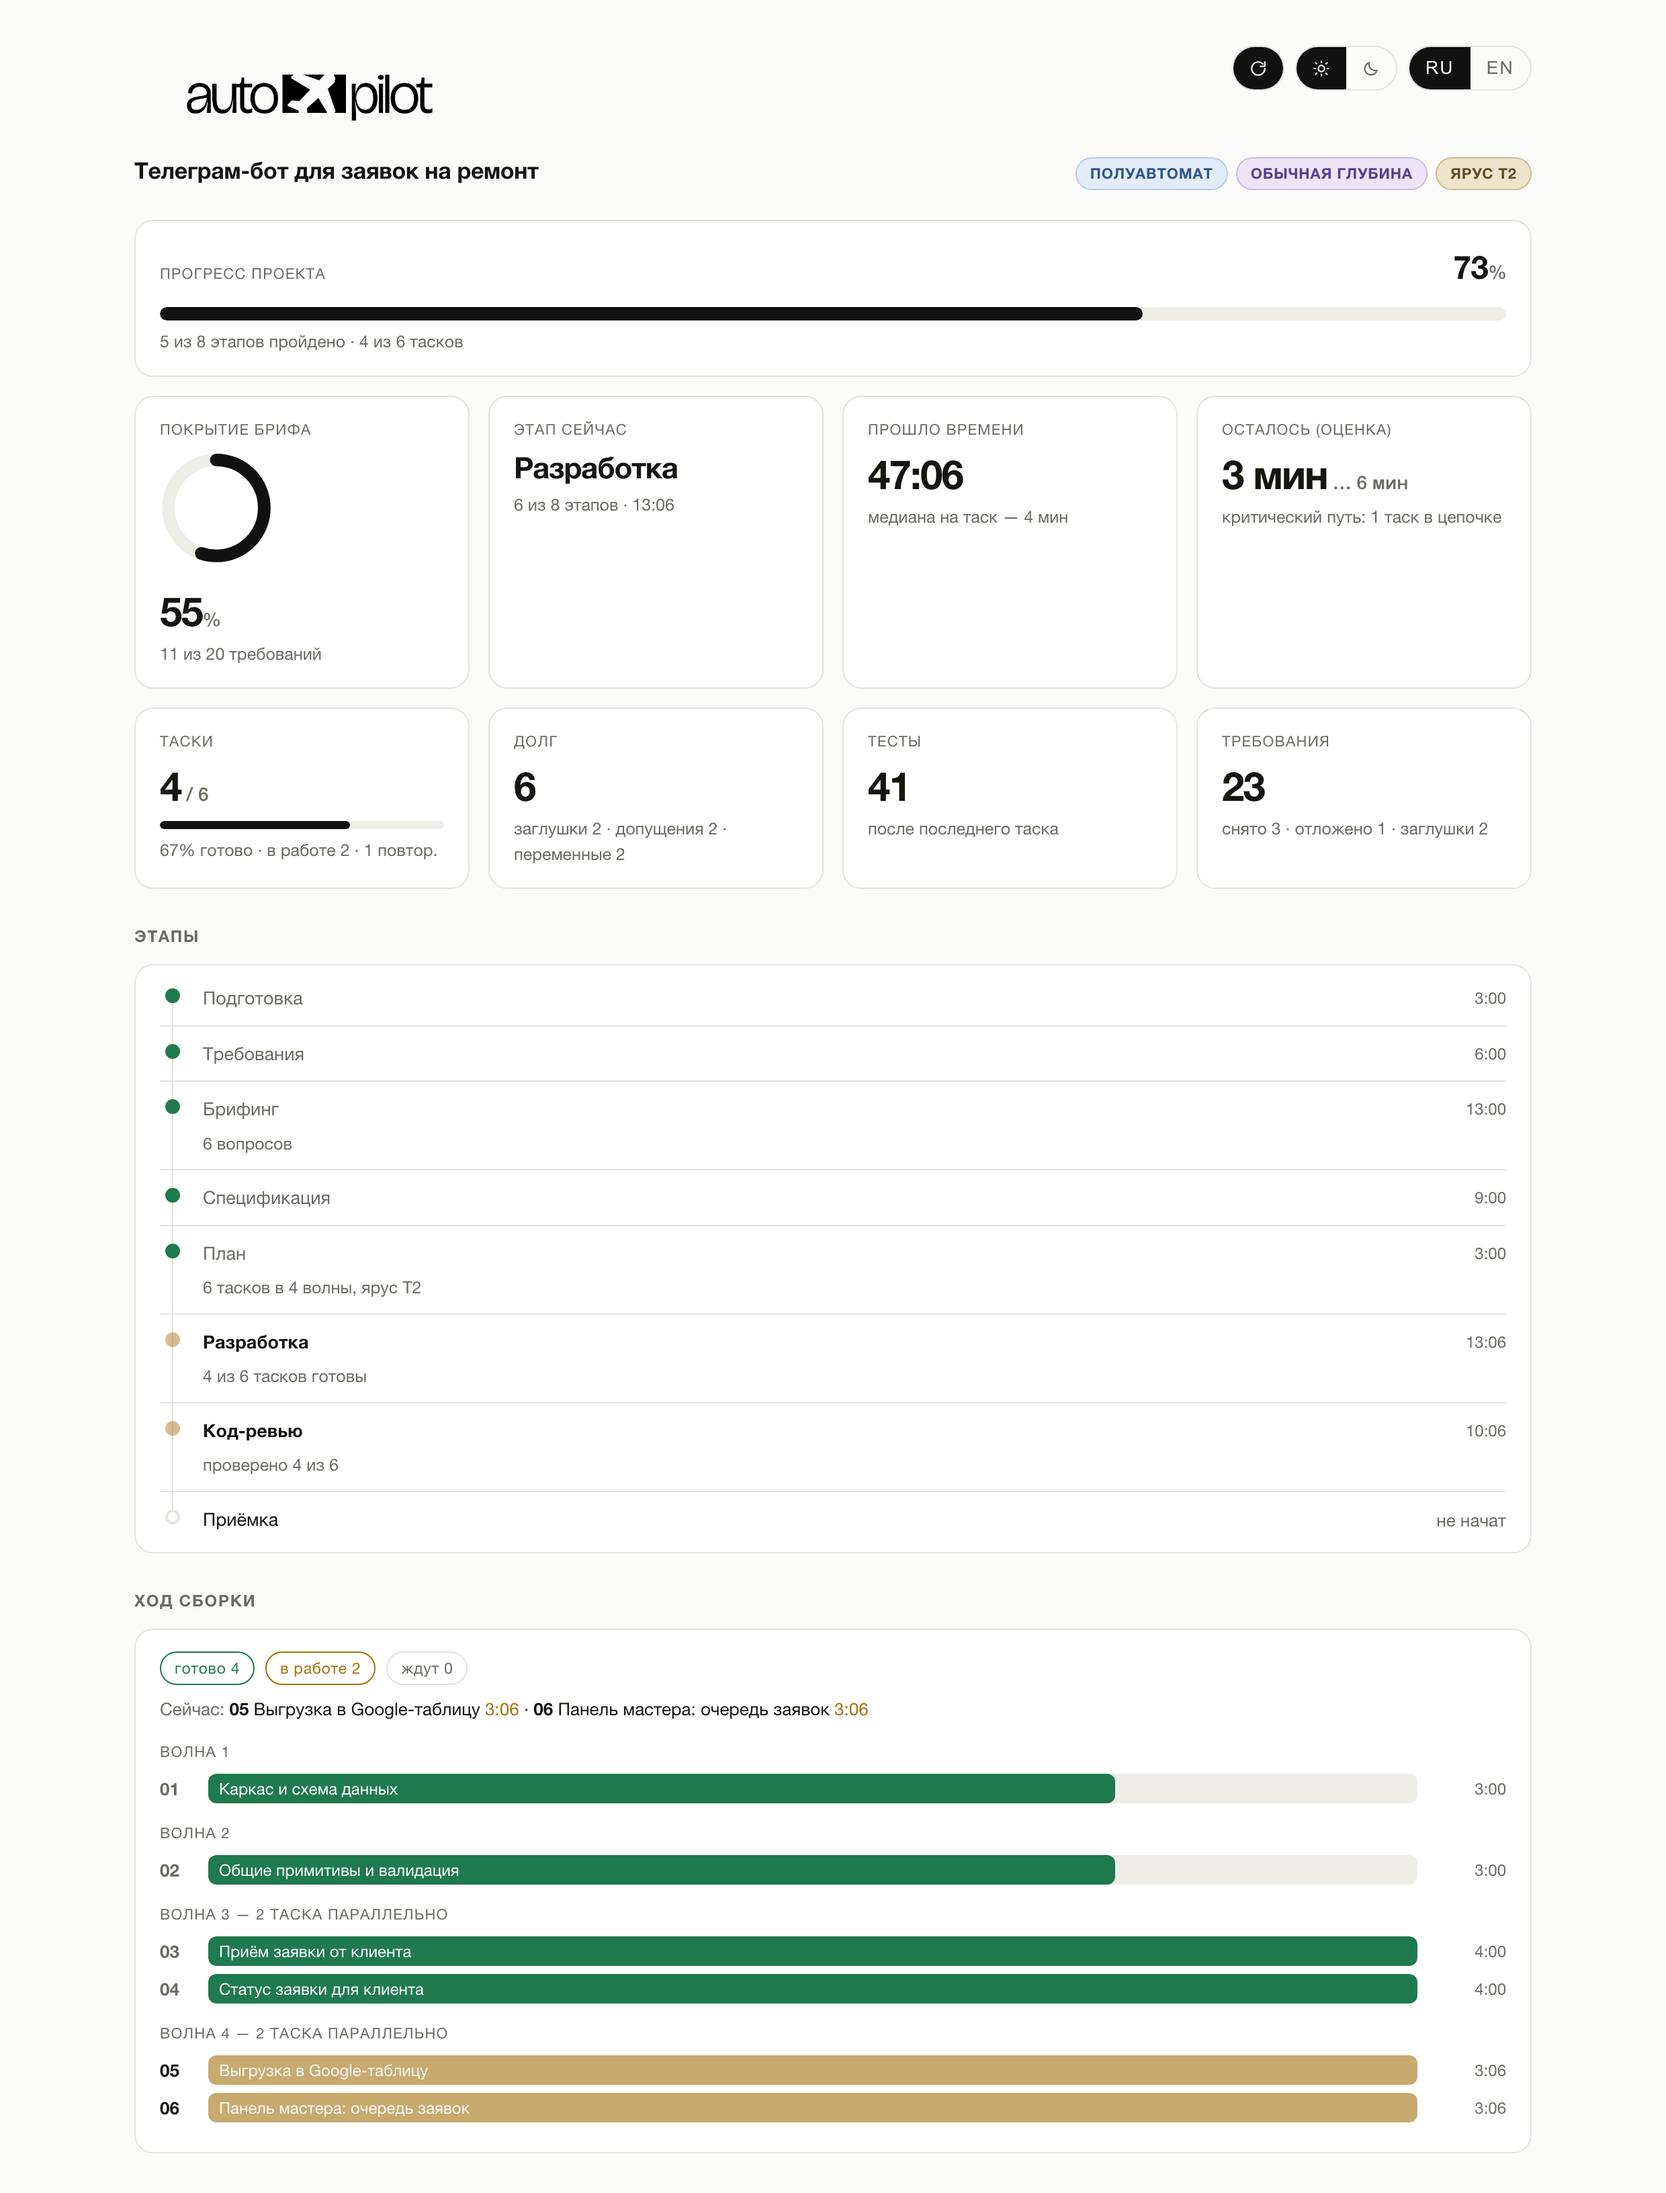
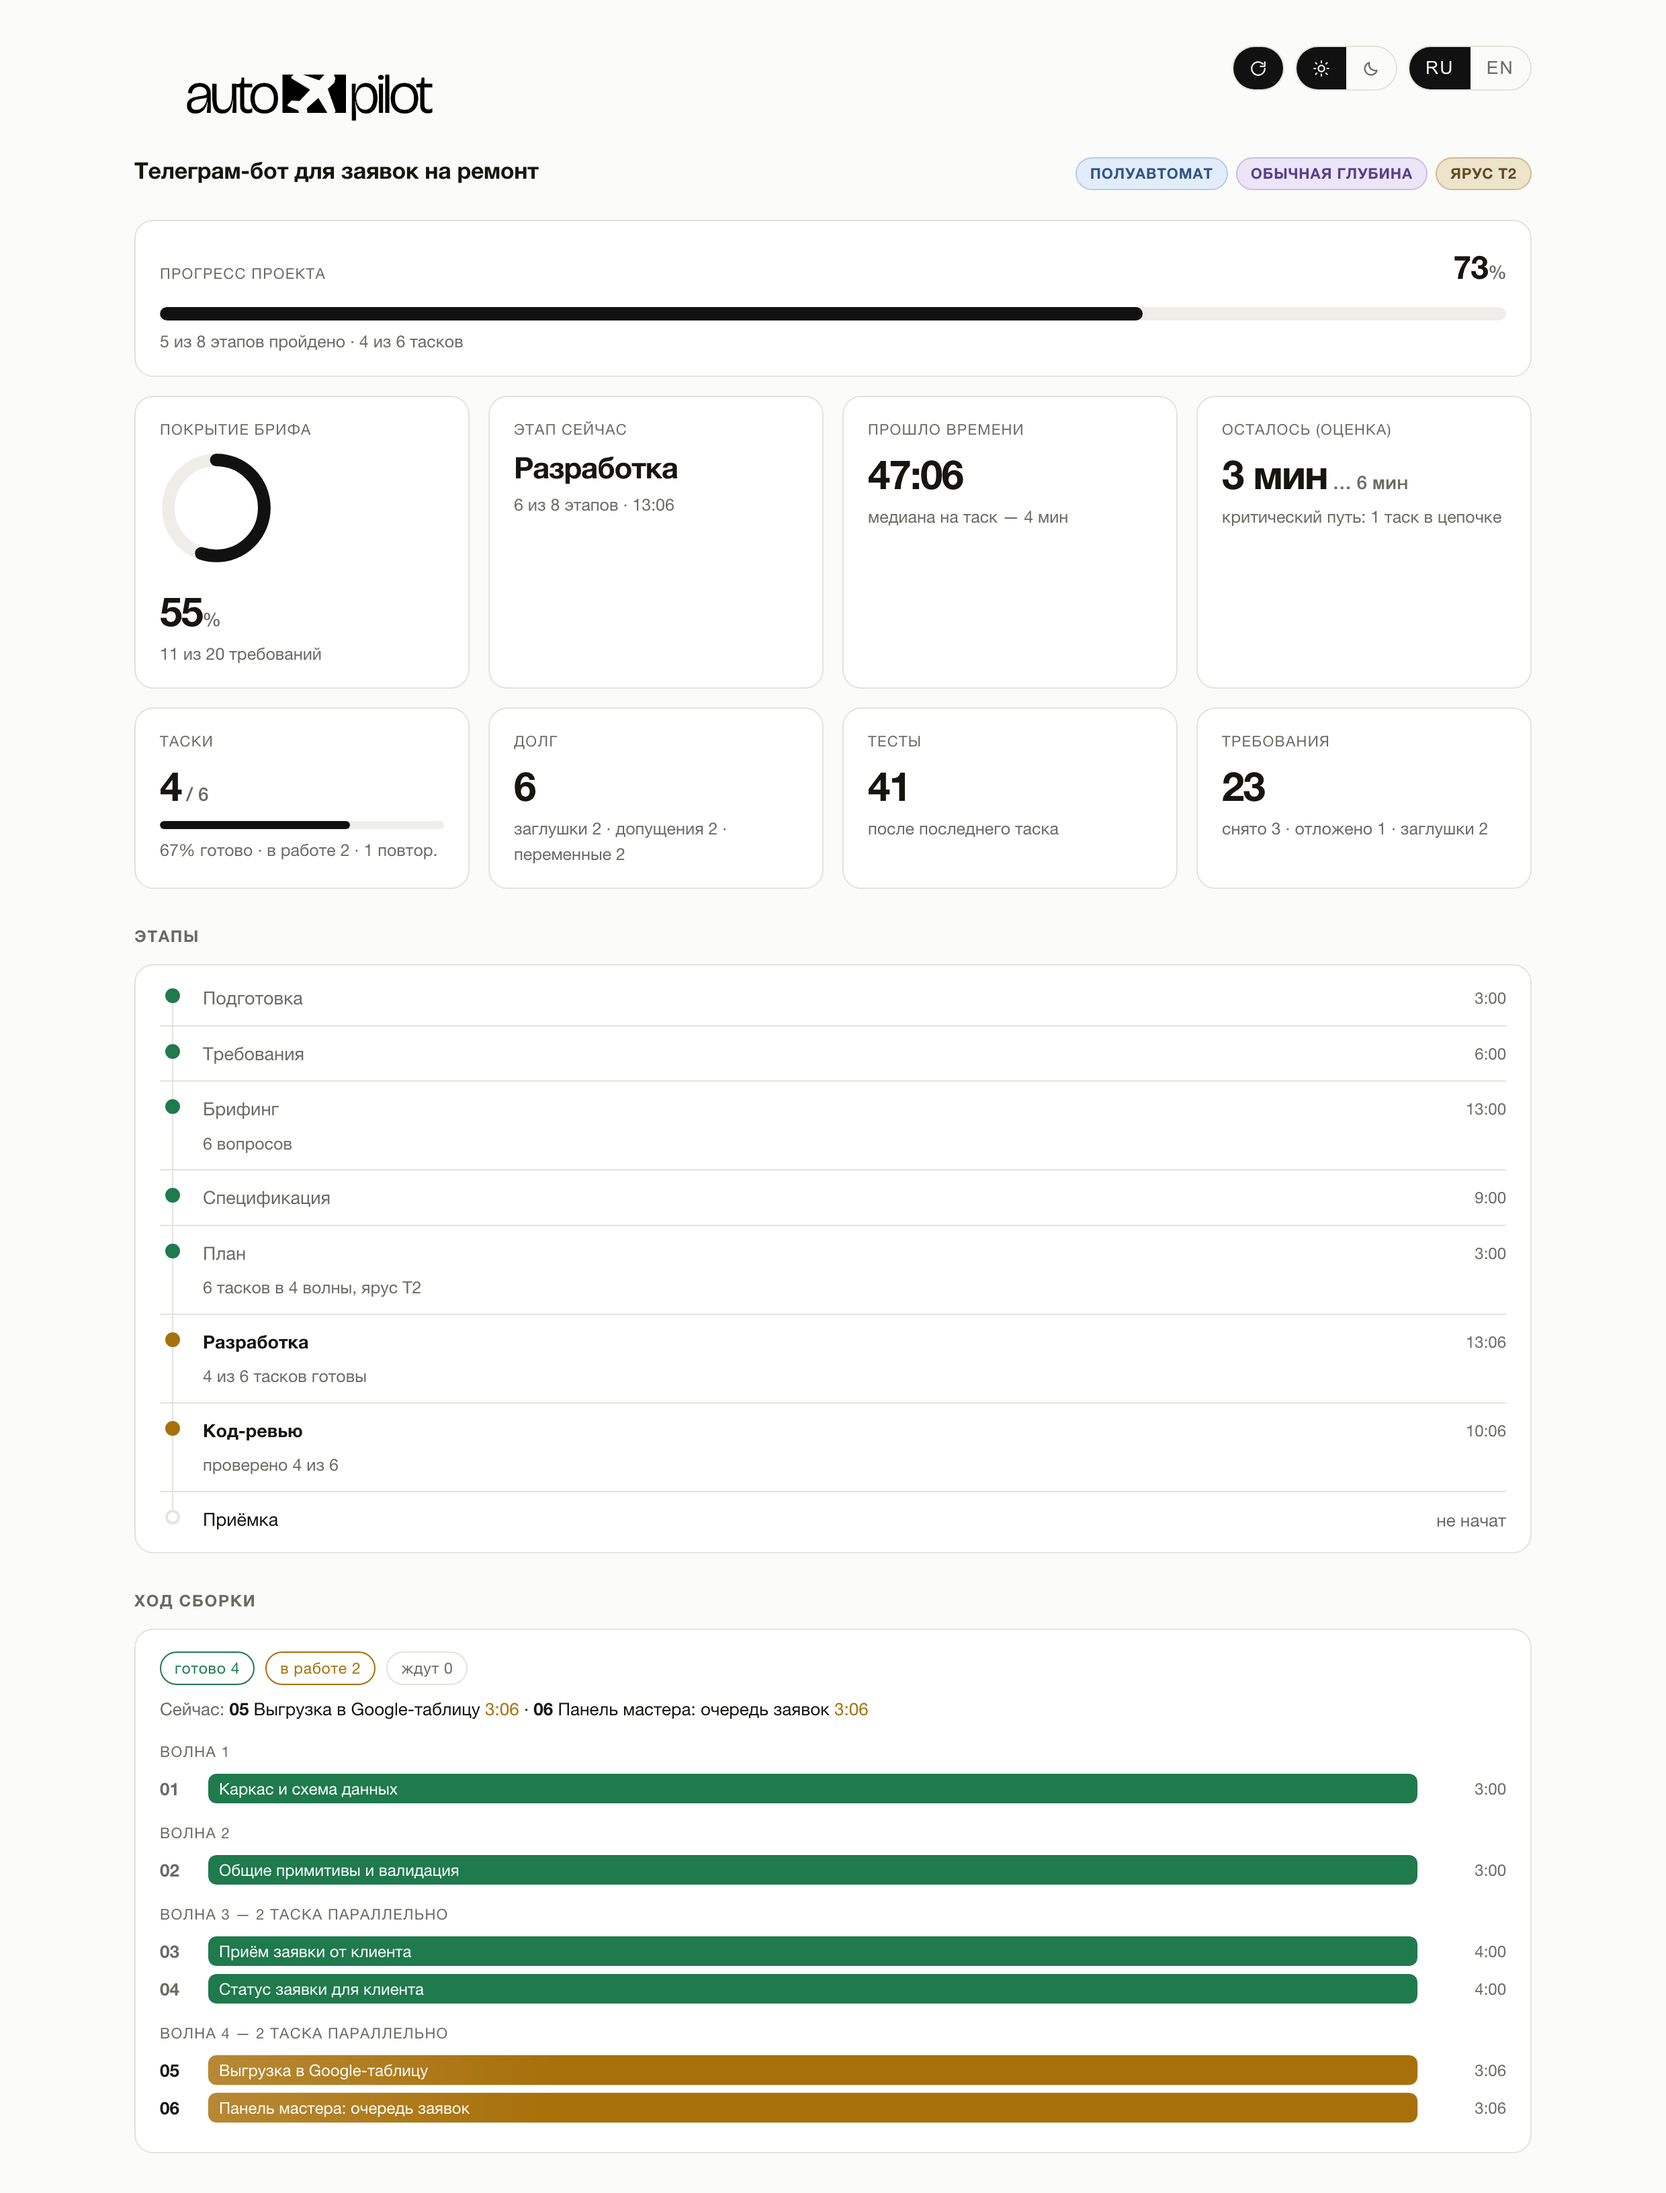
Полоса таска показывает состояние, а не долю времени
Ширина полосы была длительностью относительно самого долгого таска: готовый
таск на 19 минут из 28 рисовался заполненным на 68% и читался как недоделанный.
Горизонтальная заливка в списке задач читается как прогресс всегда — это была
ложная подсказка.

- Готов — полоса целиком, цветом статуса. Идёт — целиком, со свечением вокруг
  дорожки и бегущим бликом, без ложного процента. Ждёт — пустой пунктирный
  контур. Длительность живёт цифрой справа, где её и читают.
- Строки внутри волны сортируются по номеру таска и больше не переставляются.
- Волна назначается один раз в плане и не пересчитывается по ходу: раньше
  завершение таска сдвигало номера, и строки прыгали между волнами на глазах
  у пользователя, хотя сборка шла правильно. Если волна всё же меняется —
  это правка плана, о ней говорят вслух.
- Убран мёртвый maxMin, картинки в README перерисованы под новый вид.

Changed region(s): [[0.1242, 0.9375, 0.8694, 0.9688], [0.652, 0.7812, 0.8694, 0.875]]

diff --git a/skills/autopilot/phases/dashboard-template.html b/skills/autopilot/phases/dashboard-template.html
@@ -132,12 +132,18 @@
   .track{background:var(--ghost);border-radius:6px;height:22px;position:relative;overflow:hidden;min-width:0}
   .fill{position:absolute;inset:0 auto 0 0;border-radius:6px;display:flex;align-items:center;
     padding:0 8px;white-space:nowrap;font-size:12px;color:#fff;overflow:hidden}
-  .fill.pend{background:transparent;border:1px dashed var(--line);color:var(--dim)}
+  /* ждущий таск — пустой контур, а не залитая дорожка: плашка теперь во всю
+     ширину, и без этого «ждёт» выглядело бы как ещё одно состояние заливки */
+  .row.wait .track{background:transparent;border:1px dashed var(--line)}
+  .fill.pend{background:transparent;border:0;color:var(--dim)}
   /* «в работе» должно читаться как живое, а не как исчезающее: раньше плашка
      гасла до opacity .3 вместе с названием таска. Теперь дышит свечение вокруг
      дорожки и яркость плашки, текст остаётся читаемым всё время. */
   .row.now .track{animation:trackGlow 1.9s ease-in-out infinite}
-  .fill.active{animation:fillPulse 1.9s ease-in-out infinite}
+  /* блик бежит по плашке идущего таска — движение без ложного процента */
+  .fill.active::after{content:'';position:absolute;inset:0;
+    background:linear-gradient(90deg,transparent 0,rgba(255,255,255,.30) 50%,transparent 100%);
+    transform:translateX(-100%);animation:sheen 1.9s ease-in-out infinite}
   .mins{text-align:right;font-variant-numeric:tabular-nums;color:var(--dim);font-size:12px}
   /* этапы — вертикальная лента с рельсом */
   .stages{background:var(--panel);border:1px solid var(--line);border-radius:var(--radius);padding:4px 18px;min-width:0}
@@ -163,14 +169,11 @@
     0%,100%{box-shadow:0 0 0 0 var(--glow)}
     50%{box-shadow:0 0 0 4px transparent}
   }
-  @keyframes fillPulse{
-    0%,100%{filter:brightness(1)}
-    50%{filter:brightness(1.18)}
-  }
+  @keyframes sheen{to{transform:translateX(100%)}}
   /* у кого выключена анимация в системе — просто статичная подсветка */
   @media (prefers-reduced-motion:reduce){
-    .row.now .track,.fill.active{animation:none}
-    .row.now .track{box-shadow:0 0 0 3px var(--glow)}
+    .row.now .track{animation:none;box-shadow:0 0 0 3px var(--glow)}
+    .fill.active::after{animation:none;background:none}
   }
   .note{background:var(--panel);border:1px solid var(--line);border-radius:var(--radius);
     padding:14px 18px;font-size:13px;color:var(--dim)}
@@ -489,20 +492,22 @@ function render(lang){
   const statusColor = s => s === 'done' ? 'var(--ok)' : s === 'failed' ? 'var(--bad)'
     : s === 'in-progress' ? 'var(--warn)' : 'var(--line)';
 
-  const maxMin = Math.max(median || 10, ...durations, 1);
   const waves = [...new Set(T.map(t => t.wave ?? 1))].sort((a,b) => a-b);
-  // Полоса залита у всего, что уже стартовало — цветом своего статуса; идущий таск ещё и пульсирует.
-  // Пунктир остаётся только за тем, что не начиналось: так видно, где разработка стоит прямо сейчас.
+  // Полоса показывает СОСТОЯНИЕ, а не долю. Раньше её ширина была длительностью
+  // относительно самого долгого таска — и готовый таск на 19 из 28 минут выглядел
+  // «сделанным на 68%». Горизонтальная заливка в списке задач читается как прогресс
+  // всегда, поэтому: готов — целиком, идёт — целиком со светом и бликом, ждёт —
+  // пустой пунктир. Длительность живёт цифрой справа, где её и читают.
   const timeline = T.length ? waves.map(w => {
-    const inWave = T.filter(t => (t.wave ?? 1) === w);
+    const inWave = T.filter(t => (t.wave ?? 1) === w)
+      .sort((a,b) => String(a.id).localeCompare(String(b.id), undefined, {numeric:true}));
     const rows = inWave.map(t => {
-      const m = mins(t), started = !!t.startedAt, active = t.status === 'in-progress';
-      const width = Math.max(6, Math.round(((m || median || 10)/maxMin)*100));
+      const active = t.status === 'in-progress', pend = t.status === 'pending';
       // у не начатого таска часов нет: «0:00» читается как «идёт и стоит на месте»
-      const clock = (started && t.status !== 'pending') ? timerHTML(t.startedAt, t.finishedAt) : '—';
-      return `<div class="row${active?' now':''}"><b>${esc(t.id)}</b>
-        <div class="track"><div class="fill${started?'':' pend'}${active?' active':''}"
-          style="width:${width}%${started?';background:'+statusColor(t.status):''}">${esc(t.title)}</div></div>
+      const clock = (t.startedAt && !pend) ? timerHTML(t.startedAt, t.finishedAt) : '—';
+      return `<div class="row${active?' now':''}${pend?' wait':''}"><b>${esc(t.id)}</b>
+        <div class="track"><div class="fill${pend?' pend':''}${active?' active':''}"
+          style="width:100%${pend?'':';background:'+statusColor(t.status)}">${esc(t.title)}</div></div>
         <div class="mins">${clock}</div></div>`;
     }).join('');
     return `<div class="wave">${L.wave(w, inWave.length)}</div>${rows}`;

diff --git a/skills/autopilot/phases/4-plan.md b/skills/autopilot/phases/4-plan.md
@@ -77,6 +77,10 @@ A wave of one is a normal answer. Ticket 01 — the shell, the schema, the share
 
 **Do not manufacture parallelism.** Splitting a ticket in two so a wave looks wider spends two contexts to save one, and the merge pass exists to undo exactly that. Waves are *discovered* in the dependency graph, never designed into it. If everything genuinely depends on everything, the answer is N waves of one — say so and fly it.
 
+**A wave number is assigned once, here, and is not recomputed later.** It describes the plan, not the frontier: when a ticket finishes and the next one becomes launchable, that is the build moving through the plan, not the plan changing. Renumbering waves as the run progresses makes rows jump between groups on the dashboard, and the user — who has no way to know the numbers were rewritten — reads it as the agent losing the plan.
+
+If a wave genuinely has to change, that is a re-cut and it follows the rules for a plan that moved: the reason goes in one line to the user, and if the code forced it, a `D##` row records why. Silent renumbering is the thing to avoid, not renumbering.
+
 Write `wave` into every ticket file and into `state.json`. The dashboard groups the build by waves and marks the parallel ones («Волна 3 — 2 таска параллельно»); Phase 5 launches each wave in one go.
 
 ## Publishing the plan to the instruments
